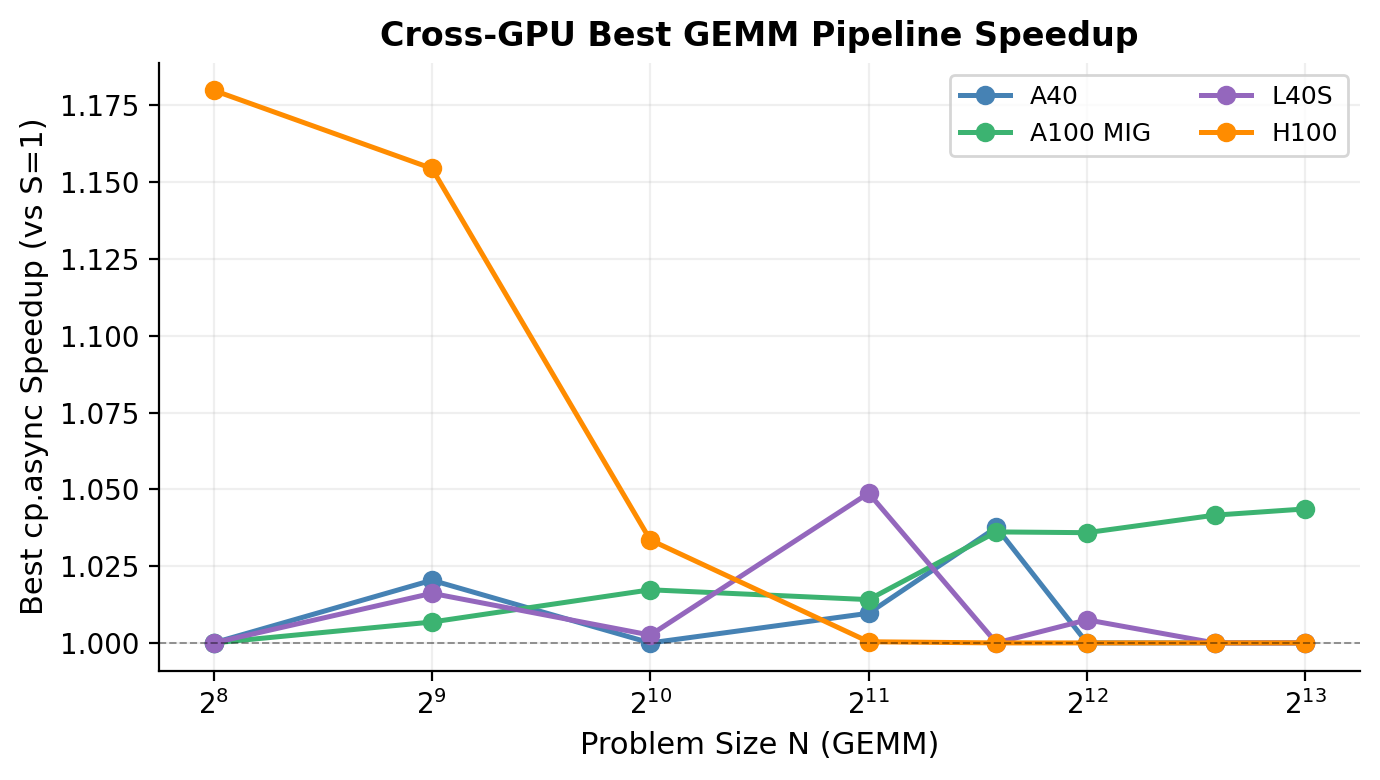
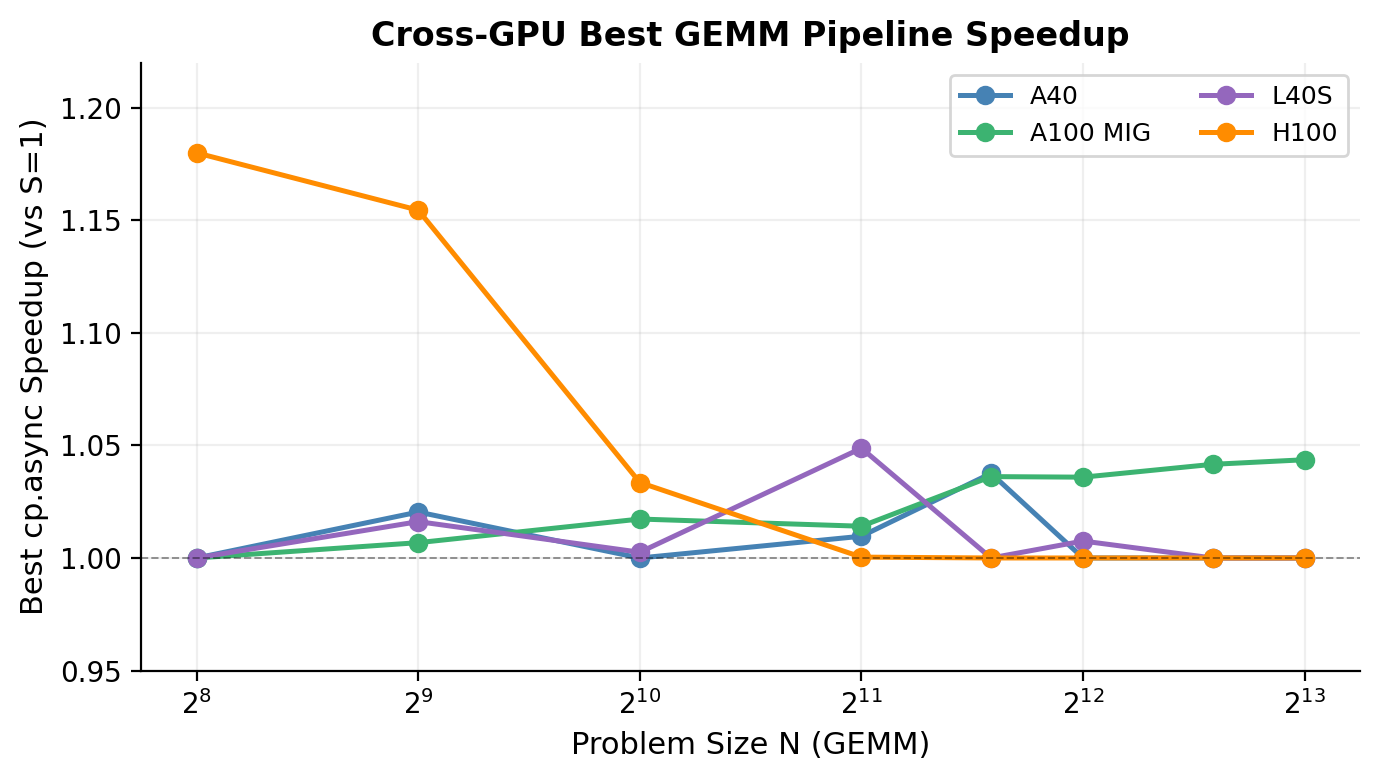
more graphs

diff --git a/scripts/regen_l2_characterization.py b/scripts/regen_l2_characterization.py
@@ -1,0 +1,140 @@
+#!/usr/bin/env python3
+"""Regenerate outputs/figures/l2_characterization.png.
+
+Left panel:  Pointer-chase latency curves (cycles vs working-set size in MB).
+Right panel: Nominal vs effective L2 capacity bar chart.
+"""
+
+import os, sys
+
+ROOT = os.path.dirname(os.path.dirname(os.path.abspath(__file__)))
+SRC  = os.path.join(ROOT, "src")
+if SRC not in sys.path:
+    sys.path.insert(0, SRC)
+
+from gpu_specs import get_gpu_spec
+
+try:
+    import matplotlib; matplotlib.use("Agg")
+    import matplotlib.pyplot as plt
+    import numpy as np
+    import pandas as pd
+except ImportError as e:
+    sys.exit("Missing dependency: {}".format(e))
+
+OUT = os.path.join(ROOT, "outputs", "figures", "l2_characterization.png")
+DPI = 200
+
+GPU_ORDER = ["V100", "A40", "A100_MIG_3g40gb", "L40S", "H100_SXM5"]
+GPU_LABELS = {
+    "V100":            "V100",
+    "A40":             "A40",
+    "A100_MIG_3g40gb": "A100\nMIG",
+    "L40S":            "L40S",
+    "H100_SXM5":       "H100",
+}
+GPU_COLORS = {
+    "V100":            "#A9A9A9",
+    "A40":             "#4682B4",
+    "A100_MIG_3g40gb": "#3CB371",
+    "L40S":            "#9467BD",
+    "H100_SXM5":       "#FF8C00",
+}
+
+POINTER_CHASE_FILES = {
+    "V100":            ("v100",    "pointer_chase_raw.csv"),
+    "A40":             ("a40",     "pointer_chase_raw.csv"),
+    "A100_MIG_3g40gb": ("a100_mig","pointer_chase_raw.csv"),
+    "L40S":            ("l40s",    "pointer_chase_raw_l40s.csv"),
+    "H100_SXM5":       ("h100",    "pointer_chase_raw_h100.csv"),
+}
+
+
+def load_pc(gpu):
+    subdir, fname = POINTER_CHASE_FILES[gpu]
+    path = os.path.join(ROOT, "outputs", subdir, fname)
+    try:
+        df = pd.read_csv(path)
+    except OSError:
+        return None
+    # deduplicate by size, keep median cycles, then sort ascending
+    df = (df.groupby("size_bytes", as_index=False)["cycles_per_load"]
+            .median()
+            .sort_values("size_bytes")
+            .reset_index(drop=True))
+    df["size_mb"] = df["size_bytes"] / (1024 * 1024)
+    return df
+
+
+fig, (ax1, ax2) = plt.subplots(1, 2, figsize=(11, 4.5), dpi=DPI)
+
+# ── Left: latency curves ──────────────────────────────────────────────────────
+for gpu in GPU_ORDER:
+    df = load_pc(gpu)
+    if df is None:
+        continue
+    ax1.plot(df["size_mb"], df["cycles_per_load"],
+             color=GPU_COLORS[gpu], linewidth=2.0,
+             marker="o", markersize=4, markeredgewidth=0.5, markeredgecolor="white",
+             label=GPU_LABELS[gpu].replace("\n", " "))
+    # vertical dotted line at effective L2 cliff
+    eff_mb = get_gpu_spec(gpu)["l2_eff_mb"]
+    ax1.axvline(eff_mb, color=GPU_COLORS[gpu], lw=1.0, ls=":", alpha=0.65)
+
+ax1.set_xscale("log", base=2)
+ax1.set_xlabel("Working Set Size (MB)", fontsize=11)
+ax1.set_ylabel("Latency (cycles/load)", fontsize=11)
+ax1.set_title("Pointer-Chase Latency vs Working Set Size\n(dotted line = effective L2 cliff)",
+              fontsize=11, fontweight="bold")
+ax1.legend(fontsize=9, framealpha=0.85)
+ax1.grid(True, alpha=0.2)
+ax1.spines["top"].set_visible(False)
+ax1.spines["right"].set_visible(False)
+
+# region annotations — placed in empty corners away from the curves
+ax1.text(0.02, 0.50, "L2 region\n(low latency)", transform=ax1.transAxes,
+         fontsize=8.5, color="#444444", va="center", ha="left",
+         bbox=dict(boxstyle="round,pad=0.25", fc="white", ec="#cccccc", alpha=0.9))
+ax1.text(0.78, 0.30, "DRAM region\n(high latency)", transform=ax1.transAxes,
+         fontsize=8.5, color="#444444", va="bottom", ha="right",
+         bbox=dict(boxstyle="round,pad=0.25", fc="white", ec="#cccccc", alpha=0.9))
+
+# ── Right: nominal vs effective L2 bar chart ──────────────────────────────────
+gpus   = GPU_ORDER
+labels = [GPU_LABELS[g].replace("\n", " ") for g in gpus]
+nom    = [get_gpu_spec(g)["l2_nominal_mb"] for g in gpus]
+eff    = [get_gpu_spec(g)["l2_eff_mb"]     for g in gpus]
+colors = [GPU_COLORS[g] for g in gpus]
+x      = np.arange(len(gpus))
+w      = 0.35
+
+ax2.bar(x - w/2, nom, w, color=colors, alpha=0.40, edgecolor="white", label="Nominal L2")
+ax2.bar(x + w/2, eff, w, color=colors, alpha=0.95, edgecolor="white", label="Effective L2 (measured)")
+
+# annotate value on top of each effective bar
+for i, (n, e) in enumerate(zip(nom, eff)):
+    ax2.text(x[i] - w/2, n + 1.5, str(int(n)),
+             ha="center", va="bottom", fontsize=8.5, color="#444444")
+    diff   = e - n
+    sign   = "+" if diff > 0 else ""
+    fc     = "#2ca02c" if diff > 0 else "#d62728"
+    label  = "{}\n({}{}%)".format(int(e), sign, int(round(100*diff/n)))
+    ax2.text(x[i] + w/2, e + 1.5, label,
+             ha="center", va="bottom", fontsize=8, color=fc, fontweight="bold")
+
+ax2.set_xticks(x)
+ax2.set_xticklabels(labels, fontsize=10)
+ax2.set_ylabel("L2 Cache Size (MB)", fontsize=11)
+ax2.set_title("Nominal vs Effective L2 Capacity\n(effective ≠ nominal on every GPU)",
+              fontsize=11, fontweight="bold")
+ax2.legend(fontsize=9, framealpha=0.85)
+ax2.grid(axis="y", alpha=0.2)
+ax2.spines["top"].set_visible(False)
+ax2.spines["right"].set_visible(False)
+
+fig.suptitle("L2 Characterization (pointer-chase microbenchmark)",
+             fontsize=12, fontweight="bold", y=1.01)
+fig.tight_layout()
+fig.savefig(OUT, dpi=DPI, bbox_inches="tight")
+print("Wrote  {}".format(OUT))
+fig.clf()

diff --git a/scripts/generate_poster_figures.py b/scripts/generate_poster_figures.py
@@ -139,10 +139,11 @@ def fig_pred_vs_meas(plt, np, df, out_dir, dpi):
                    color="#4682B4" if workload == "gemm" else "#FF8C00")
 
     max_v = max(float(df["pred_speedup"].max()),
-                float(df["measured_speedup"].max()), 1.05)
-    ax.plot([0.8, max_v], [0.8, max_v], "k--", linewidth=0.9, alpha=0.6)
-    ax.set_xlim(0.8, max_v)
-    ax.set_ylim(0.8, max_v)
+                float(df["measured_speedup"].max()), 1.05) + 0.05
+    min_v = 0.75
+    ax.plot([min_v, max_v], [min_v, max_v], "k--", linewidth=0.9, alpha=0.6)
+    ax.set_xlim(min_v, max_v)
+    ax.set_ylim(min_v, max_v)
     ax.set_xlabel("Predicted Speedup", fontsize=11)
     ax.set_ylabel("Measured Speedup", fontsize=11)
     ax.set_title("Predicted vs Measured Speedup", fontsize=12, fontweight="bold")
@@ -151,10 +152,11 @@ def fig_pred_vs_meas(plt, np, df, out_dir, dpi):
     ax.spines["right"].set_visible(False)
 
     mape = float(df["ape"].mean()) * 100.0
-    ax.text(0.05, 0.93, "MAPE = {:.1f}%".format(mape),
-            transform=ax.transAxes, fontsize=10,
+    ax.text(0.97, 0.05, "MAPE = {:.1f}%".format(mape),
+            transform=ax.transAxes, fontsize=10, ha="right", va="bottom",
             bbox=dict(boxstyle="round,pad=0.3", fc="#FFCB05", alpha=0.7))
-    ax.legend(fontsize=9, framealpha=0.8)
+    ax.legend(fontsize=9, framealpha=0.8, loc="lower right",
+              bbox_to_anchor=(0.97, 0.18))
 
     save(fig, os.path.join(out_dir, "pred_vs_meas_scatter.png"), dpi)
     plt.close(fig)
@@ -247,6 +249,7 @@ def fig_gemm_cross_gpu_best(plt, np, df, out_dir, dpi):
     ax.set_ylabel("Best cp.async Speedup (vs S=1)", fontsize=11)
     ax.set_title("Cross-GPU Best GEMM Pipeline Speedup", fontsize=12, fontweight="bold")
     ax.legend(fontsize=9, framealpha=0.8, ncol=2)
+    ax.set_ylim(0.95, 1.22)
     ax.grid(True, alpha=0.2)
     ax.spines["top"].set_visible(False)
     ax.spines["right"].set_visible(False)

diff --git a/scripts/generate_step_figures.py b/scripts/generate_step_figures.py
@@ -125,7 +125,9 @@ def _load_pointer_chase(gpu_key, filename, pd):
         df = pd.read_csv(path)
     except OSError:
         return None
-    return df.groupby("size_bytes", as_index=False).first()
+    return (df.groupby("size_bytes", as_index=False).first()
+              .sort_values("size_bytes")
+              .reset_index(drop=True))
 
 POINTER_CHASE_FILES = {
     "V100":            ("v100",    "pointer_chase_raw.csv"),
